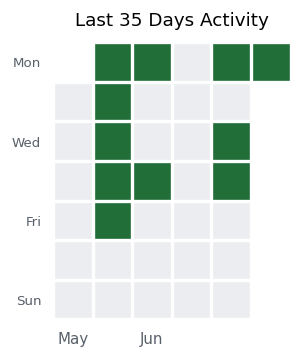
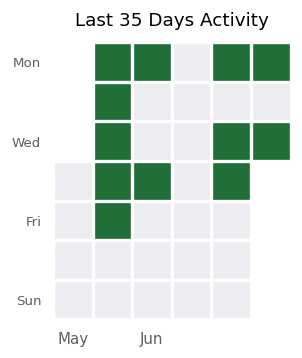
Lab Entry: 2026-06-24

Changed region(s): [[0.8344, 0.338, 0.9834, 0.4609]]

diff --git a/README.md b/README.md
@@ -1,7 +1,7 @@
-# 🏃 平均週 2.3 回でつーがく中！
+# 🏃 平均週 2.4 回でつーがく中！
 <p align="center">
   <img src="./monthly_report.png" alt="Attendance Calendar">
 </p>
 
 ___
-*最終更新: 2026-06-22*
+*最終更新: 2026-06-24*
